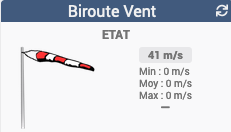
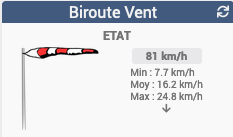
AJout info Biroute

diff --git a/fr_FR/WIDGET_d_biroute.md b/fr_FR/WIDGET_d_biroute.md
@@ -28,11 +28,12 @@ Pour choisir le type de visuel à afficher, il faut ajouter les paramètres opti
         <li><b>logo_type</b> : Permet de choisir <i>l'extension</i> pour l'icône/image <i>logoON</i>(par exemple: 'gif', 'jpg', etc.....)<i>(valeur par défaut : png)</i></li>
     </ul>
 </blockquote>
-<br/>
 <blockquote>
     <ul>
         <li><b>Attention</b> : l'image change en fonction de la vitesse du vent, il ne faut pas mettre _xx dans le paramètre logo</li>
         <li>Si vous utilisez l'image par défaut, il n'est pas necessaire d'ajouter le paramètre <b>logo</b></li>
+        <li>Le Widget est basé sur la vitesse du vent em km/h, il est possible de tranformer la vitesse de m/s en km/h directement depuis l'équipement</li>
+        <p><img src="../img/exemple/d/biroute_1.png" alt="Resultat" /></p>
     </ul>
 </blockquote>
 
